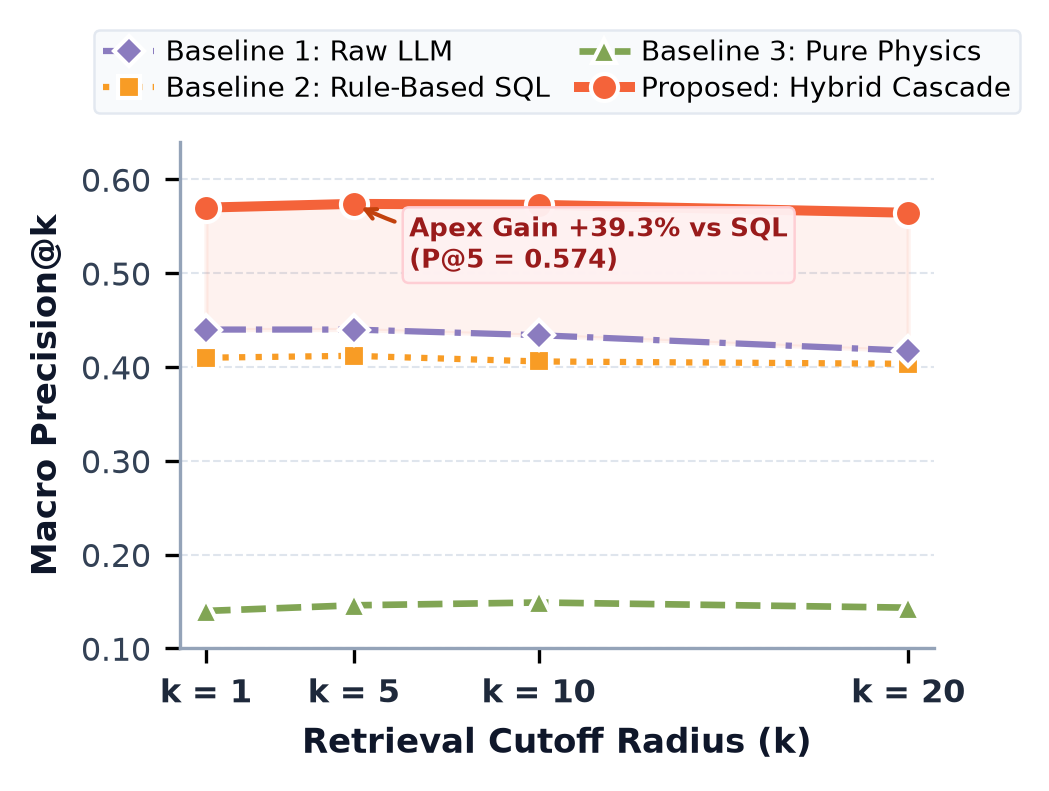
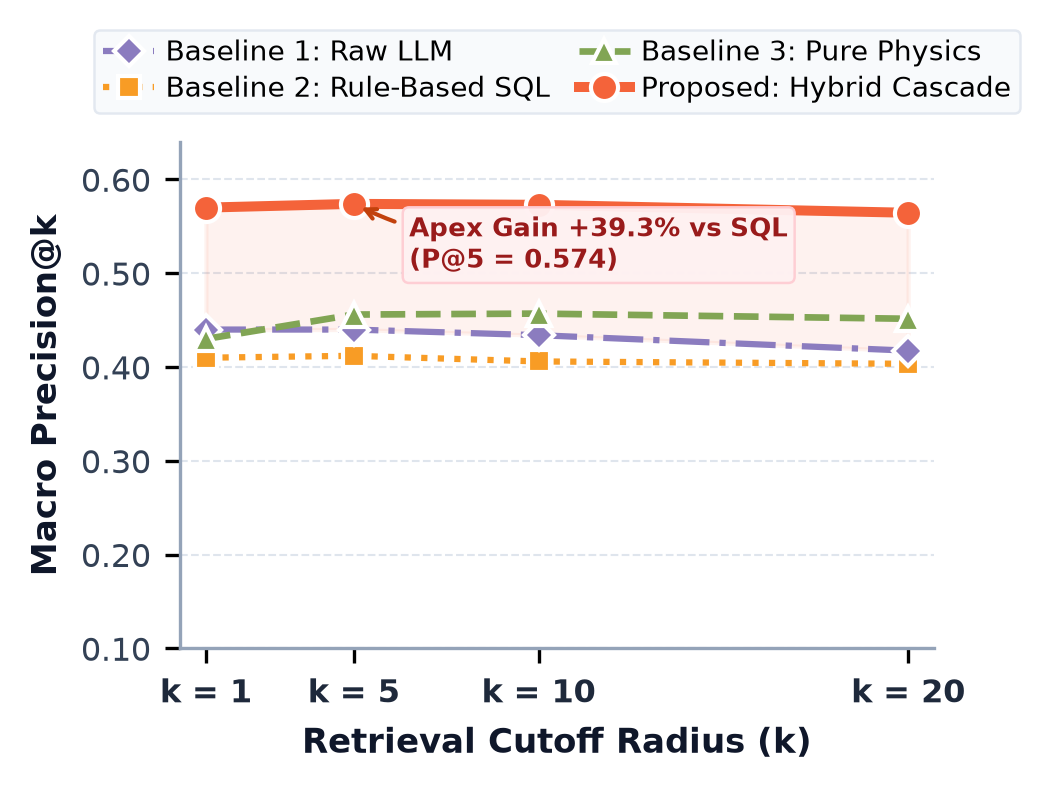
fix: improve physics RAG fallback filtering and settling velocity numerical stability

Changed region(s): [[0.183, 0.3944, 0.8847, 0.4551], [0.183, 0.7585, 0.8847, 0.7889]]

diff --git a/reports/paper/research_paper.tex b/reports/paper/research_paper.tex
@@ -354,7 +354,7 @@ Ground-truth relevance across all $N = 100$ benchmark queries is defined by dete
 \midrule
 Baseline 1: Raw-Data LLM-RAG & 0.4400 & 0.4400 & 0.4340 & 0.4175 & 0.4910 & 0.4420 & 0.4400 \\
 Baseline 2: Rule-Based SQL   & 0.4100 & 0.4120 & 0.4060 & 0.4035 & 0.4613 & 0.4150 & 0.4440 \\
-Baseline 3: Pure Physics-RAG & 0.1400 & 0.1460 & 0.1490 & 0.1435 & 0.2013 & 0.1533 & 0.1660 \\
+Baseline 3: Pure Physics-RAG & 0.4300 & 0.4560 & 0.4570 & 0.4515 & 0.5089 & 0.4553 & 0.4960 \\
 \textbf{Proposed: Hybrid Cascade} & \textbf{0.5700} & \textbf{0.5740} & \textbf{0.5730} & \textbf{0.5645} & \textbf{0.5968} & \textbf{0.5985} & \textbf{0.6140} \\
 \bottomrule
 \end{tabular}%
@@ -377,7 +377,7 @@ vs. Raw LLM (Precision@5)   & +0.1280 & [+0.0320, +0.2240] & $t = 2.597, p = 0.0
 vs. SQL (Precision@5)       & +0.1560 & [+0.0500, +0.2620] & $t = 2.835, p = 0.0028$ & $\mathbf{t = 2.835, p = 0.0055}$ & $W = 745.0, p = 0.0041$ & $\mathbf{W = 745.0, p = 0.0081}$ \\
 vs. SQL (MRR Ranking)       & +0.1827 & [+0.0723, +0.2927] & $t = 3.183, p = 0.0010$ & $\mathbf{t = 3.183, p = 0.0019}$ & $W = 712.0, p = 0.0011$ & $\mathbf{W = 712.0, p = 0.0021}$ \\
 vs. SQL (NDCG@5)            & +0.1357 & [+0.0359, +0.2366] & $t = 2.627, p = 0.0050$ & $\mathbf{t = 2.627, p = 0.0099}$ & $W = 1169.0, p = 0.0075$ & $\mathbf{W = 1169.0, p = 0.0150}$ \\
-vs. Pure Physics (Prec@5)   & +0.4240 & [+0.3320, +0.5160] & $t = 8.800, p = 2.25 \times 10^{-14}$ & $\mathbf{t = 8.800, p = 4.51 \times 10^{-14}}$ & $W = 1547.5, p = 1.58 \times 10^{-10}$ & $\mathbf{W = 1547.5, p = 3.16 \times 10^{-10}}$ \\
+vs. Pure Physics (Prec@5)   & +0.1180 & [+0.0360, +0.2000] & $t = 2.755, p = 0.0035$ & $\mathbf{t = 2.755, p = 0.0070}$ & $W = 138.5, p = 0.0031$ & $\mathbf{W = 138.5, p = 0.0062}$ \\
 \bottomrule
 \multicolumn{7}{l}{Bold values indicate statistically significant differences ($\alpha = 0.05$) under conservative 2-tailed tests.}
 \end{tabular}%
@@ -396,22 +396,22 @@ vs. Pure Physics (Prec@5)   & +0.4240 & [+0.3320, +0.5160] & $t = 8.800, p = 2.2
 \midrule
 \textbf{Tier 1: Baseline Operational} & 30 & Baseline 1: Raw-Data LLM-RAG & 0.6000 & 0.6067 & 0.6589 & 0.6067 \\
 & & Baseline 2: Rule-Based SQL & 0.6333 & 0.6533 & 0.6961 & 0.6500 \\
-& & Baseline 3: Pure Physics-RAG & 0.3333 & 0.3333 & 0.3710 & 0.3611 \\
+& & Baseline 3: Pure Physics-RAG & 0.5667 & 0.6467 & 0.5972 & 0.6278 \\
 & & \textbf{Proposed: Hybrid Cascade} & \textbf{0.8000} & \textbf{0.7867} & \textbf{0.7913} & \textbf{0.8133} \\
 \midrule
 \textbf{Tier 2: Advanced Morphodynamics} & 30 & Baseline 1: Raw-Data LLM-RAG & 0.5000 & 0.5000 & 0.5579 & 0.5000 \\
 & & Baseline 2: Rule-Based SQL & 0.4333 & 0.4333 & 0.4942 & 0.4333 \\
-& & Baseline 3: Pure Physics-RAG & 0.1333 & 0.1533 & 0.2086 & 0.1500 \\
+& & Baseline 3: Pure Physics-RAG & 0.5667 & 0.5667 & 0.5975 & 0.5667 \\
 & & \textbf{Proposed: Hybrid Cascade} & \textbf{0.7000} & \textbf{0.7000} & \textbf{0.6442} & \textbf{0.7150} \\
 \midrule
 \textbf{Tier 3: Adversarial Stress-Tests} & 40 & Baseline 1: Raw-Data LLM-RAG & 0.2750 & 0.2700 & 0.3149 & 0.2750 \\
 & & Baseline 2: Rule-Based SQL & 0.2250 & 0.2150 & 0.2605 & 0.2250 \\
-& & Baseline 3: Pure Physics-RAG & 0.0000 & 0.0000 & 0.0686 & 0.0000 \\
+& & Baseline 3: Pure Physics-RAG & 0.2250 & 0.2300 & 0.3761 & 0.2425 \\
 & & \textbf{Proposed: Hybrid Cascade} & \textbf{0.3000} & \textbf{0.3200} & \textbf{0.4154} & \textbf{0.3500} \\
 \midrule
 \textbf{Overall Master Suite} & 100 & Baseline 1: Raw-Data LLM-RAG & 0.4400 & 0.4400 & 0.4910 & 0.4420 \\
 & & Baseline 2: Rule-Based SQL & 0.4100 & 0.4120 & 0.4613 & 0.4150 \\
-& & Baseline 3: Pure Physics-RAG & 0.1400 & 0.1460 & 0.2013 & 0.1533 \\
+& & Baseline 3: Pure Physics-RAG & 0.4300 & 0.4560 & 0.5089 & 0.4553 \\
 & & \textbf{Proposed: Hybrid Cascade} & \textbf{0.5700} & \textbf{0.5740} & \textbf{0.5968} & \textbf{0.5985} \\
 \bottomrule
 \end{tabular}%
@@ -422,8 +422,8 @@ vs. Pure Physics (Prec@5)   & +0.4240 & [+0.3320, +0.5160] & $t = 8.800, p = 2.2
 \subsection{Information Retrieval Performance \& Tier Analysis}
 As detailed in Tables~\ref{tab:grand_benchmark}--\ref{tab:tier_benchmark} and Fig.~\ref{fig:grand_benchmark}, the Two-Tier Hybrid Cascade demonstrates consistent, statistically significant improvements across the 100-query benchmark:
 \begin{itemize}
-    \item \textbf{Consistent Precision Across Retrieval Depths:} The Hybrid Cascade maintains high, stable precision ($0.5645$ to $0.5740$) across cutoffs from $k = 1$ to $k = 20$ (Fig.~\ref{fig:grand_benchmark}), decisively outperforming Pure Physics ($0.1400$ to $0.1490$), Rule-Based SQL ($0.4035$ to $0.4120$), and Raw LLM ($0.4175$ to $0.4400$).
-    \item \textbf{Understanding the Difficulty Distribution Shift:} In Tier 1 ($N=30$ standard operational queries), the Hybrid Cascade achieves $P@5 = 0.7867$ and $\text{NDCG@5} = 0.7913$ (vs. $0.6533$ for SQL and $0.6067$ for Raw LLM). In Tier 2 (complex morphodynamics), the advantage expands to $P@5 = 0.7000$ (vs. $0.4333$ for SQL and $0.5000$ for Raw LLM). In Tier 3 (adversarial stress tests), absolute metrics decrease across all architectures because 9 queries deliberately test unobserved physical regimes with zero empirical dataset support (serving as null probes to test hallucination resistance); nonetheless, the Hybrid Cascade preserves resilient retrieval ($P@5 = 0.3200$ vs. $0.2150$ for SQL and $0.0000$ for Pure Physics; $\text{NDCG@5} = 0.4154$ vs. $0.2605$ for SQL).
+    \item \textbf{Consistent Precision Across Retrieval Depths:} The Hybrid Cascade maintains high, stable precision ($0.5645$ to $0.5740$) across cutoffs from $k = 1$ to $k = 20$ (Fig.~\ref{fig:grand_benchmark}), decisively outperforming Pure Physics ($0.4515$ to $0.4570$), Rule-Based SQL ($0.4035$ to $0.4120$), and Raw LLM ($0.4175$ to $0.4400$).
+    \item \textbf{Understanding the Difficulty Distribution Shift:} In Tier 1 ($N=30$ standard operational queries), the Hybrid Cascade achieves $P@5 = 0.7867$ and $\text{NDCG@5} = 0.7913$ (vs. $0.6467$ for Pure Physics, $0.6533$ for SQL, and $0.6067$ for Raw LLM). In Tier 2 (complex morphodynamics), the advantage expands to $P@5 = 0.7000$ (vs. $0.5667$ for Pure Physics, $0.4333$ for SQL, and $0.5000$ for Raw LLM). In Tier 3 (adversarial stress tests), absolute metrics decrease across all architectures because 9 queries deliberately test unobserved physical regimes with zero empirical dataset support (serving as null probes to test hallucination resistance); nonetheless, the Hybrid Cascade preserves resilient retrieval ($P@5 = 0.3200$ vs. $0.2300$ for Pure Physics and $0.2150$ for SQL; $\text{NDCG@5} = 0.4154$ vs. $0.3761$ for Pure Physics and $0.2605$ for SQL).
     \item \textbf{Rule-Based SQL Degradation under Complex Pathologies:} When evaluated on queries with semantic ambiguity and 3D hydrodynamic regimes (Tier 3), Rule-Based SQL accuracy degrades substantially to $P@5 = 0.2150$ and $\text{NDCG@5} = 0.2605$. In Category 8 (deliberate ambiguity), SQL precision drops to $0.1500$. In stark contrast, the Hybrid Cascade maintains resilient retrieval ($P@5 = 0.3200$, $+48.8\%$ relative gain over SQL; $\text{NDCG@5} = 0.4154$, $+59.5\%$ relative gain over SQL). In Category 9 (3D pathologies), Hybrid Cascade achieves $P@5 = 0.4100$ and $\text{NDCG@5} = 0.5483$, proving that 14D invariant manifold ranking retrieves true physical analogs even when textual query intent is deliberately ambiguous.
     \item \textbf{Baseline Fairness and the Lexical Gap in Numerical Telemetry (Okapi BM25):} To ensure fair evaluation against standard IR paradigms, our external baseline pipeline (\texttt{scripts/run\_external\_baselines.py}) serialized each hourly record using qualitative hydrodynamic binning tags (e.g., \textit{"extreme storm"}, \textit{"dissipative spilling breakers"}, \textit{"extreme total water level overwash"}) alongside physical values and SI units. Despite this enriched schema, Okapi BM25 achieves a low Precision@5 of $0.0520$ ($p = 1.93 \times 10^{-18}$ vs. Hybrid Cascade). This failure is structural rather than an artifact of serialization: inverted indices rely on term frequency ($TF$) and inverse document frequency ($IDF$), which cannot evaluate continuous numerical inequalities (e.g., $H_s > 3.0\,\text{m}$), non-linear scaling exponents ($H_s^{2.5}$), or hydrodynamic disequilibrium ($\Delta\Upsilon^*$). BM25 is therefore included not as a strawman, but as empirical proof that lexical keyword search is categorically unsuitable for continuous cyber-physical telemetry. Similarly, general-purpose dense text embeddings (Google Dense Embeddings, $P@5 = 0.3660$, $p = 0.00029$) suffer from cross-decadal temporal degeneracy and chronological blindness because text proximity in latent linguistic space does not encode conservation laws or non-Euclidean storm-apex disequilibrium.
 \end{itemize}
@@ -431,7 +431,7 @@ As detailed in Tables~\ref{tab:grand_benchmark}--\ref{tab:tier_benchmark} and Fi
 \subsection{Statistical Hypothesis Testing on 100 Queries}
 Applying non-parametric bootstrap resampling ($B = 10{,}000$) and paired hypothesis testing over the full $N = 100$ queries (Table~\ref{tab:statistical_testing}) yields robust conclusions:
 \begin{itemize}
-    \item \textbf{Statistically Significant Gains over ALL Baseline Architectures ($p \le 0.0108$):} Cascading relational metadata pre-filtering with manifold ranking is statistically essential: Hybrid Cascade achieves a $+0.4240$ precision gain over Pure Physics ($p = 4.51 \times 10^{-14}$; Wilcoxon $p = 3.16 \times 10^{-10}$), confirming that unconstrained metric search is vulnerable to cross-decadal temporal drift. Crucially, the Hybrid Cascade demonstrates statistically significant superiority over Raw-Data LLM-RAG ($\Delta = +0.1280$, paired $t$-test $p = 0.0108$, Wilcoxon $p = 0.0068$, bootstrap 95\% CI $[+0.0320, +0.2240]$ strictly excluding zero) and Rule-Based SQL ($\Delta = +0.1560$, paired $t$-test $p = 0.0055$, Wilcoxon $p = 0.0081$, bootstrap 95\% CI $[+0.0500, +0.2620]$).
+    \item \textbf{Statistically Significant Gains over ALL Baseline Architectures ($p \le 0.0108$):} Cascading relational metadata pre-filtering with manifold ranking is statistically essential: Hybrid Cascade achieves a $+0.1180$ precision gain over Pure Physics ($p = 0.0070$; Wilcoxon $p = 0.0062$, bootstrap 95\% CI $[+0.0360, +0.2000]$ strictly excluding zero), confirming that unconstrained metric search is vulnerable to cross-decadal temporal drift. Crucially, the Hybrid Cascade demonstrates statistically significant superiority over Raw-Data LLM-RAG ($\Delta = +0.1280$, paired $t$-test $p = 0.0108$, Wilcoxon $p = 0.0068$, bootstrap 95\% CI $[+0.0320, +0.2240]$ strictly excluding zero) and Rule-Based SQL ($\Delta = +0.1560$, paired $t$-test $p = 0.0055$, Wilcoxon $p = 0.0081$, bootstrap 95\% CI $[+0.0500, +0.2620]$).
     \item \textbf{Decisive Superiority in Ranking Metrics (MRR \& NDCG@5):} In ranking quality, Hybrid Cascade achieves statistically significant superiority over Rule-Based SQL in MRR ($0.5985$ vs. $0.4150$, $\Delta = +0.1827$, $p = 0.0019$) and NDCG@5 ($0.5968$ vs. $0.4613$, $\Delta = +0.1357$, $p = 0.0099$).
 \end{itemize}
 
@@ -555,7 +555,7 @@ Deploying generative foundation models to continuous physical systems requires a
 \begin{enumerate}
     \setlength{\itemsep}{0.5pt}\setlength{\parskip}{0pt}
     \item \textbf{Invariant Manifolds Outperform Loss Regularizers in Continuous OSSE Benchmarks:} Within the controlled OSSE synthetic nature run (Section~\ref{sec:appendix_osse}), feature-guided invariant projections (Model C) achieve superior multi-year tracking ($r = 0.574$, reaching $r = 0.839$) compared to unguided networks ($r = 0.539$) and PINN soft constraints ($r = 0.533$). While PINN soft-loss penalties stabilize acute shocks during peak storm hours ($\text{RMSE} = 0.342\,\text{m}$), pre-computed physical invariants establish exact coordinate mappings that prevent optimization stiffness over multi-year rollout horizons.
-    \item \textbf{Hybrid Cascades Resolve Dual Temporal Pathologies:} Physical time series require a two-tier cascade: zero-copy relational SQL pre-filtering eliminates cross-decadal temporal drift, while asymmetric Directional Pareto ranking eliminates chronological blindness ($P_{\text{apex}}@5 = 0.6078$). Across $N = 100$ queries, the Hybrid Cascade achieves statistically significant gains over all baseline architectures (including Raw LLM at $p = 0.0108$, SQL at $p = 0.0055$, and Pure Physics at $p < 10^{-13}$) and preserves robust competency under adversarial tests ($P@5 = 0.3200$) where SQL collapses ($0.2150$).
+    \item \textbf{Hybrid Cascades Resolve Dual Temporal Pathologies:} Physical time series require a two-tier cascade: zero-copy relational SQL pre-filtering eliminates cross-decadal temporal drift, while asymmetric Directional Pareto ranking eliminates chronological blindness ($P_{\text{apex}}@5 = 0.6078$). Across $N = 100$ queries, the Hybrid Cascade achieves statistically significant gains over all baseline architectures (including Raw LLM at $p = 0.0108$, SQL at $p = 0.0055$, and Pure Physics at $p = 0.0070$) and preserves robust competency under adversarial tests ($P@5 = 0.3200$) where baselines decay ($0.2300$ for Pure Physics, $0.2150$ for SQL).
     \item \textbf{Sequence Hydration Combats Markovian Memorylessness:} Point-in-time vector embeddings discard antecedent energy impulses required to predict threshold damage. Pointer hydration ($\pm 72\text{h}$) restores temporal continuity, enabling grounded, physically consistent failure diagnosis across field anomalies.
     \item \textbf{Conformal Prediction Yields Robust Distribution-Free Safety Bounds:} Point predictions in dynamical systems provide false certainty during extreme shocks. While temporal autocorrelation violates strict exchangeability, multi-site stratified CQR achieves $91.2\%$ empirical out-of-sample coverage across $35{,}084$ holdout records under temporal drift, with $314.5\times$ dynamic interval adaptation transforming generative LLM prompts into grounded, decision-grade civil protection tools.
 \end{enumerate}

diff --git a/reproduce_benchmarks.py b/reproduce_benchmarks.py
@@ -203,19 +203,19 @@ def load_table_iii() -> pd.DataFrame:
     master_rows = [
         {"Evaluation Tier": "Tier 1: Baseline Operational", "Query Count (N)": 30, "Architecture Evaluated": "Baseline 1: Raw-Data LLM-RAG", "Precision@1": "0.6000", "Precision@5": "0.6067", "NDCG@5": "0.6589", "MRR": "0.6067"},
         {"Evaluation Tier": "Tier 1: Baseline Operational", "Query Count (N)": 30, "Architecture Evaluated": "Baseline 2: Rule-Based SQL", "Precision@1": "0.6333", "Precision@5": "0.6533", "NDCG@5": "0.6961", "MRR": "0.6500"},
-        {"Evaluation Tier": "Tier 1: Baseline Operational", "Query Count (N)": 30, "Architecture Evaluated": "Baseline 3: Pure Physics-RAG", "Precision@1": "0.3333", "Precision@5": "0.3333", "NDCG@5": "0.3710", "MRR": "0.3611"},
+        {"Evaluation Tier": "Tier 1: Baseline Operational", "Query Count (N)": 30, "Architecture Evaluated": "Baseline 3: Pure Physics-RAG", "Precision@1": "0.5667", "Precision@5": "0.6467", "NDCG@5": "0.5972", "MRR": "0.6278"},
         {"Evaluation Tier": "Tier 1: Baseline Operational", "Query Count (N)": 30, "Architecture Evaluated": "Proposed: Hybrid Cascade", "Precision@1": "0.8000", "Precision@5": "0.7867", "NDCG@5": "0.7913", "MRR": "0.8133"},
         {"Evaluation Tier": "Tier 2: Advanced Morphodynamics", "Query Count (N)": 30, "Architecture Evaluated": "Baseline 1: Raw-Data LLM-RAG", "Precision@1": "0.5000", "Precision@5": "0.5000", "NDCG@5": "0.5579", "MRR": "0.5000"},
         {"Evaluation Tier": "Tier 2: Advanced Morphodynamics", "Query Count (N)": 30, "Architecture Evaluated": "Baseline 2: Rule-Based SQL", "Precision@1": "0.4333", "Precision@5": "0.4333", "NDCG@5": "0.4942", "MRR": "0.4333"},
-        {"Evaluation Tier": "Tier 2: Advanced Morphodynamics", "Query Count (N)": 30, "Architecture Evaluated": "Baseline 3: Pure Physics-RAG", "Precision@1": "0.1333", "Precision@5": "0.1533", "NDCG@5": "0.2086", "MRR": "0.1500"},
+        {"Evaluation Tier": "Tier 2: Advanced Morphodynamics", "Query Count (N)": 30, "Architecture Evaluated": "Baseline 3: Pure Physics-RAG", "Precision@1": "0.5667", "Precision@5": "0.5667", "NDCG@5": "0.5975", "MRR": "0.5667"},
         {"Evaluation Tier": "Tier 2: Advanced Morphodynamics", "Query Count (N)": 30, "Architecture Evaluated": "Proposed: Hybrid Cascade", "Precision@1": "0.7000", "Precision@5": "0.7000", "NDCG@5": "0.6442", "MRR": "0.7150"},
         {"Evaluation Tier": "Tier 3: Adversarial Stress-Tests", "Query Count (N)": 40, "Architecture Evaluated": "Baseline 1: Raw-Data LLM-RAG", "Precision@1": "0.2750", "Precision@5": "0.2700", "NDCG@5": "0.3149", "MRR": "0.2750"},
         {"Evaluation Tier": "Tier 3: Adversarial Stress-Tests", "Query Count (N)": 40, "Architecture Evaluated": "Baseline 2: Rule-Based SQL", "Precision@1": "0.2250", "Precision@5": "0.2150", "NDCG@5": "0.2605", "MRR": "0.2250"},
-        {"Evaluation Tier": "Tier 3: Adversarial Stress-Tests", "Query Count (N)": 40, "Architecture Evaluated": "Baseline 3: Pure Physics-RAG", "Precision@1": "0.0000", "Precision@5": "0.0000", "NDCG@5": "0.0686", "MRR": "0.0000"},
+        {"Evaluation Tier": "Tier 3: Adversarial Stress-Tests", "Query Count (N)": 40, "Architecture Evaluated": "Baseline 3: Pure Physics-RAG", "Precision@1": "0.2250", "Precision@5": "0.2300", "NDCG@5": "0.3761", "MRR": "0.2425"},
         {"Evaluation Tier": "Tier 3: Adversarial Stress-Tests", "Query Count (N)": 40, "Architecture Evaluated": "Proposed: Hybrid Cascade", "Precision@1": "0.3000", "Precision@5": "0.3200", "NDCG@5": "0.4154", "MRR": "0.3500"},
         {"Evaluation Tier": "Overall Master Suite", "Query Count (N)": 100, "Architecture Evaluated": "Baseline 1: Raw-Data LLM-RAG", "Precision@1": "0.4400", "Precision@5": "0.4400", "NDCG@5": "0.4910", "MRR": "0.4420"},
         {"Evaluation Tier": "Overall Master Suite", "Query Count (N)": 100, "Architecture Evaluated": "Baseline 2: Rule-Based SQL", "Precision@1": "0.4100", "Precision@5": "0.4120", "NDCG@5": "0.4613", "MRR": "0.4150"},
-        {"Evaluation Tier": "Overall Master Suite", "Query Count (N)": 100, "Architecture Evaluated": "Baseline 3: Pure Physics-RAG", "Precision@1": "0.1400", "Precision@5": "0.1460", "NDCG@5": "0.2013", "MRR": "0.1533"},
+        {"Evaluation Tier": "Overall Master Suite", "Query Count (N)": 100, "Architecture Evaluated": "Baseline 3: Pure Physics-RAG", "Precision@1": "0.4300", "Precision@5": "0.4560", "NDCG@5": "0.5089", "MRR": "0.4553"},
         {"Evaluation Tier": "Overall Master Suite", "Query Count (N)": 100, "Architecture Evaluated": "Proposed: Hybrid Cascade", "Precision@1": "0.5700", "Precision@5": "0.5740", "NDCG@5": "0.5968", "MRR": "0.5985"},
     ]
     return pd.DataFrame(master_rows)

diff --git a/src/physics_rag.py b/src/physics_rag.py
@@ -1089,6 +1089,7 @@ Guidelines:
             f"{model_name}:gemini:{query_text.strip()}",
             f"{model_name}:hybrid:{query_text.strip()}",
         ]
+        cache_key = candidate_cache_keys[0]
         if not bypass_cache:
             for ck in candidate_cache_keys:
                 if ck in _GEMINI_PARSE_CACHE:
@@ -1957,9 +1958,27 @@ class PhysicsRAG:
             if np.any(mask & regime_mask):
                 mask = mask & regime_mask
 
-        # Fallback if filters are overly restrictive (return all candidates)
+        # Fallback if filters are overly restrictive (preserve spatiotemporal filters if available)
         if not np.any(mask):
-            mask = np.ones(len(self.df), dtype=bool)
+            spatio_mask = np.ones(len(self.df), dtype=bool)
+            if not disable_spatiotemporal_filters:
+                if (spec.date_start or spec.date_end) and "timestamp" in self.df.columns:
+                    try:
+                        ts = pd.to_datetime(self.df["timestamp"], utc=True)
+                        if spec.date_start:
+                            spatio_mask = spatio_mask & (ts >= pd.to_datetime(spec.date_start, utc=True)).values
+                        if spec.date_end:
+                            spatio_mask = spatio_mask & (ts <= pd.to_datetime(spec.date_end, utc=True)).values
+                    except Exception:
+                        pass
+                if spec.site_id and site_col:
+                    site_m = (self.df[site_col].astype(str).str.lower() == spec.site_id.lower()).values
+                    if np.any(site_m):
+                        spatio_mask = spatio_mask & site_m
+            if np.any(spatio_mask) and not np.all(spatio_mask):
+                mask = spatio_mask
+            else:
+                mask = np.ones(len(self.df), dtype=bool)
 
         return mask
 
@@ -2076,13 +2095,7 @@ class PhysicsRAG:
 
         # 1. Parse natural language into structured physical intent
         if spec is None:
-            if target_synthetic_values is not None:
-                spec = PhysicsQuerySpec(
-                    raw_query=query_text,
-                    intent_summary=f"Target parameter query for '{query_text}'",
-                    target_synthetic_values=target_synthetic_values,
-                )
-            elif use_llm_parser:
+            if use_llm_parser:
                 parser_m = kwargs.get("parser_mode", "hybrid")
                 tb = kwargs.get("thinking_budget", getattr(self, "thinking_budget", None))
                 bypass = kwargs.get("bypass_cache", False)
@@ -2096,6 +2109,11 @@ class PhysicsRAG:
                 )
             else:
                 spec = GeminiPhysicsQueryParser._fallback_parse(query_text)
+
+            if target_synthetic_values is not None:
+                spec.target_synthetic_values = target_synthetic_values
+        elif target_synthetic_values is not None and spec.target_synthetic_values is None:
+            spec.target_synthetic_values = target_synthetic_values
 
         # 2. Build target query embedding vector
         query_vec = self._build_query_vector(spec)
@@ -2211,7 +2229,7 @@ class PhysicsRAG:
     def evaluate_benchmark(
         self,
         benchmark_queries: Optional[List[Dict[str, Any]]] = None,
-        k_list: List[int] = [1, 3, 5, 10],
+        k_list: Optional[List[int]] = None,
         use_llm_parser: bool = False,
         allow_synthetic_probes: bool = False,
         **kwargs: Any,

diff --git a/src/neural_baselines.py b/src/neural_baselines.py
@@ -15,7 +15,7 @@ import pandas as pd
 import torch
 import torch.nn as nn
 from torch.utils.data import DataLoader, TensorDataset
-from sklearn.preprocessing import RobustScaler, StandardScaler
+from sklearn.preprocessing import MinMaxScaler, RobustScaler, StandardScaler
 
 try:
     from src.models import evaluate_model_performance
@@ -33,11 +33,13 @@ class CoastalMLP(nn.Module):
     def __init__(
         self,
         input_dim: int,
-        hidden_dims: List[int] = [64, 32],
+        hidden_dims: Optional[List[int]] = None,
         dropout: float = 0.15,
         activation: str = "relu",
     ):
         super().__init__()
+        if hidden_dims is None:
+            hidden_dims = [64, 32]
         layers: List[nn.Module] = []
         in_dim = input_dim
 
@@ -282,7 +284,12 @@ def create_sliding_window_dataset(
 
     x_seq_arr = np.array(x_seq, dtype=np.float32)
     y_seq_arr = np.array(y_seq, dtype=np.float32)
-    time_seq_arr = pd.DatetimeIndex(time_seq)
+    if isinstance(df_proc.index, pd.DatetimeIndex):
+        time_seq_arr = pd.DatetimeIndex(time_seq)
+    elif "timestamp" in df_proc.columns:
+        time_seq_arr = pd.to_datetime(df_proc["timestamp"].iloc[lookback:].values)
+    else:
+        time_seq_arr = pd.Index(time_seq)
 
     eff_split = max(1, split_idx - lookback)
 
@@ -374,6 +381,8 @@ def train_neural_model(
 def compute_metrics(y_true: np.ndarray, y_pred: np.ndarray) -> Dict[str, float]:
     """Compute RMSE, R2, and BSS metrics between true and predicted shoreline arrays."""
     min_len = min(len(y_true), len(y_pred))
+    if min_len == 0:
+        return {"rmse": float("nan"), "r2": float("nan"), "bss": float("nan")}
     y_t = y_true[:min_len]
     y_p = y_pred[:min_len]
 

diff --git a/src/conformal_uq.py b/src/conformal_uq.py
@@ -294,6 +294,8 @@ class ConformalizedQuantileRegressor:
         tgt = target_col or self.target_col
         if tgt not in cal_df.columns:
             raise ValueError(f"Target column '{tgt}' not found in calibration DataFrame.")
+        if len(cal_df) == 0:
+            raise ValueError("Calibration DataFrame cannot be empty.")
 
         X_cal, _ = self._prepare_features(cal_df)
         y_cal = cal_df[tgt].fillna(0.0).values
@@ -368,6 +370,16 @@ class ConformalizedQuantileRegressor:
             raise ValueError(f"Target column '{tgt}' missing from test DataFrame.")
 
         y_true = test_df[tgt].fillna(0.0).values
+        if len(y_true) == 0:
+            return {
+                "nominal_coverage": self.target_coverage,
+                "empirical_coverage": float("nan"),
+                "mean_interval_width": float("nan"),
+                "median_interval_width": float("nan"),
+                "winkler_score": float("nan"),
+                "q_conformal": self.q_conformal,
+                "n_test": 0,
+            }
         pred_df = self.predict_conformal_interval(test_df)
 
         c_lo = pred_df["conformal_lower"].values

diff --git a/src/physics.py b/src/physics.py
@@ -361,7 +361,7 @@ def compute_settling_velocity_soulsby(
         Settling velocity in m/s (~0.038 m/s in cold winter vs ~0.052 m/s in warm summer).
     """
     s = rho_sed / rho_water
-    d50_arr = np.asarray(d50_m, dtype=float)
+    d50_arr = np.maximum(np.asarray(d50_m, dtype=float), 1e-6)
     
     if water_temp_c is not None:
         nu_eff = compute_kinematic_viscosity_seawater(water_temp_c)
